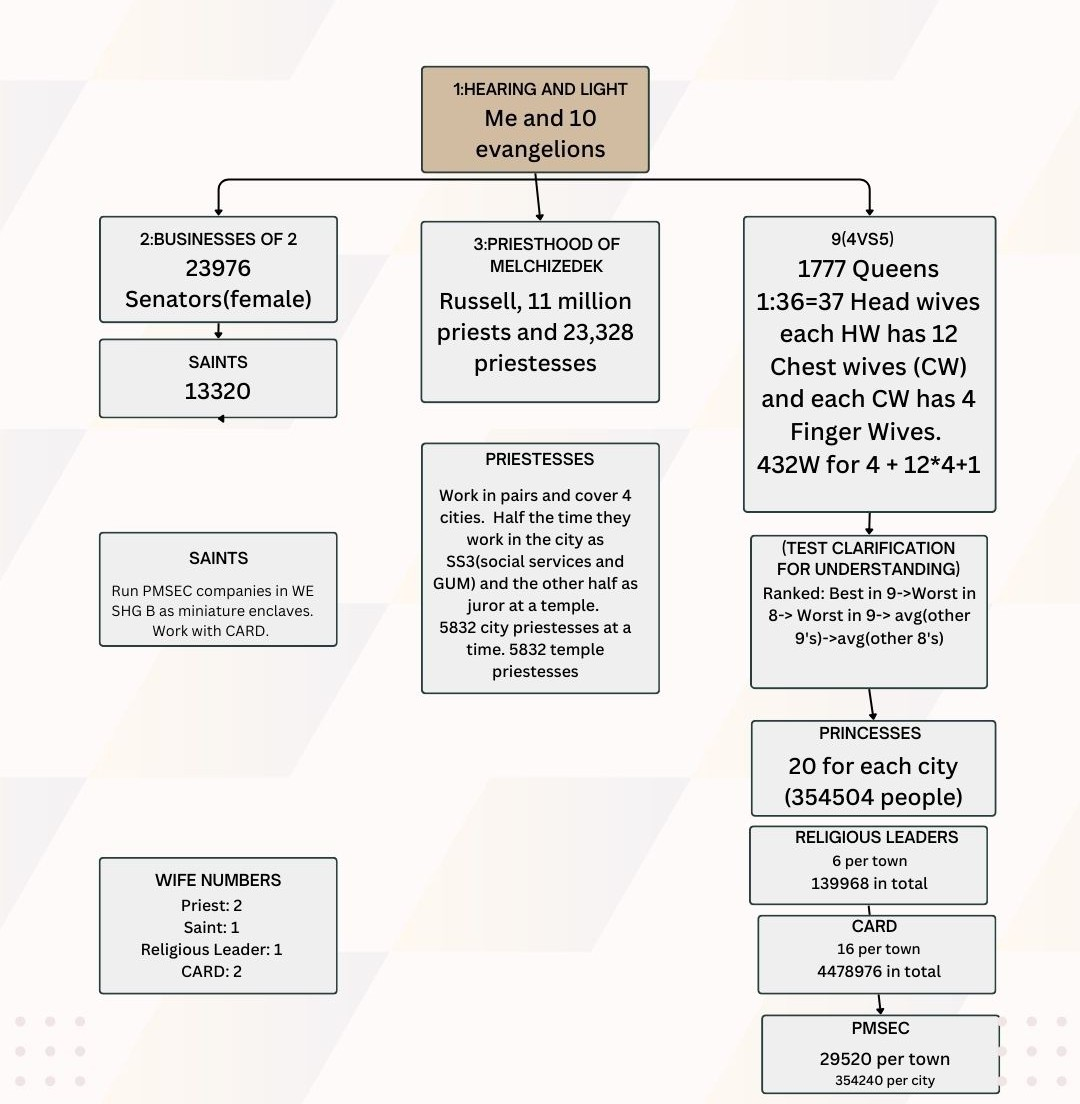
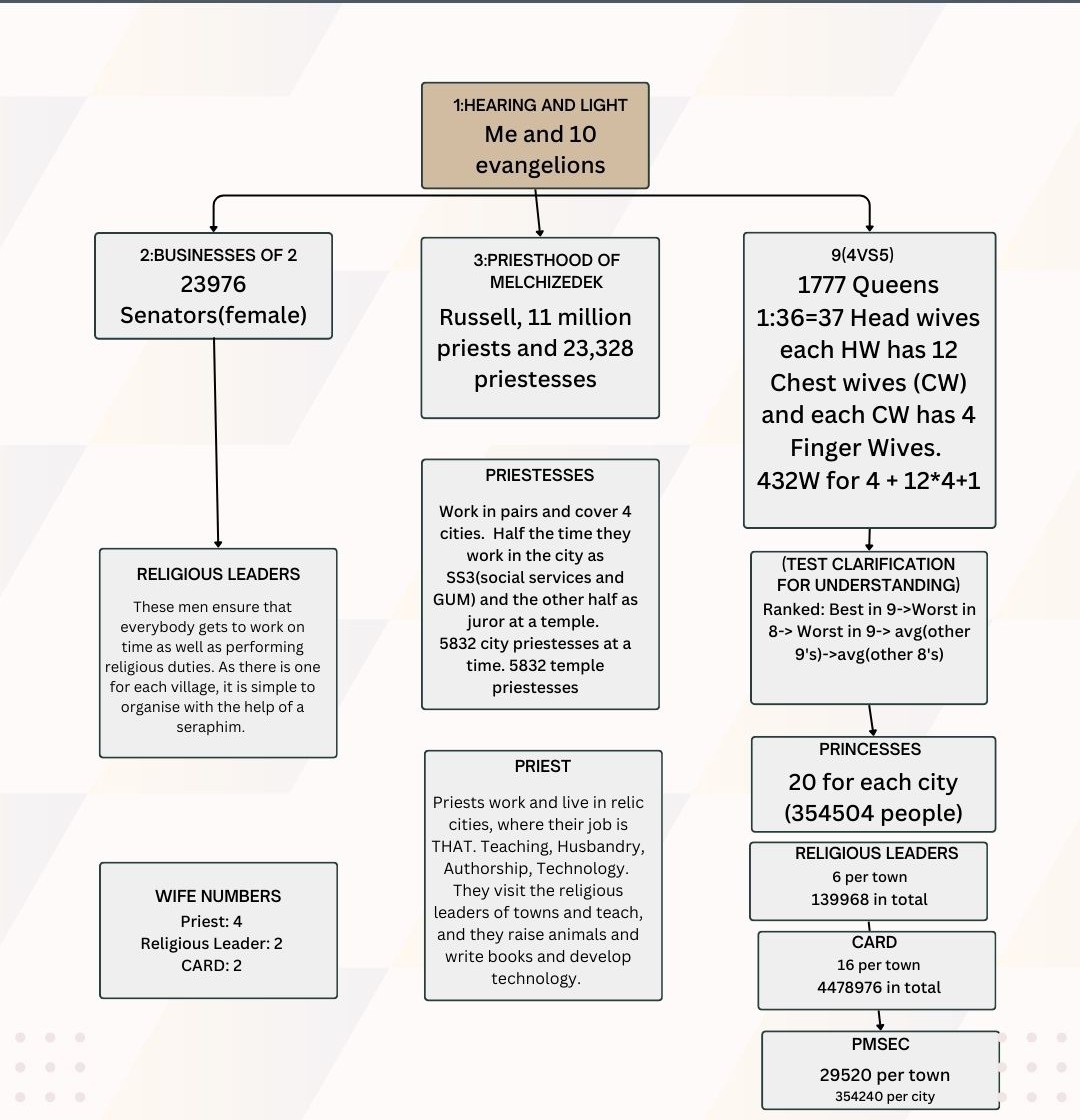
Overwrite remote with local changes 08.02.2026

diff --git a/src/App.js b/src/App.js
@@ -1553,7 +1553,7 @@ const carouselItems = bottomThree.map(item => ({
           <p style={{ fontSize: "15px", lineHeight: 1.6 }}>
             As there are 20 princesses per city and 12 towns per city. 
             The princess will move about often. The total population of a city is 354504 and a Town is 29542. 
-            Saddles can contain 38 people and are built in neighborhoods of 120 and sandwiches can contain 60 people and are built in neighbourhoods of 73. 
+            Saddles can contain 38 people and are built in neighborhoods of 120 and sandwiches can contain 60 people and are built in neighborhoods of 73. 
             Priestesses are shared between 4 cities. Hospitals are a service and within the walls. 
             There will be local health facilities and convenience stores at each residential area serviced by people and evangelions. 
             Training will be provided for a range of work in PMSEC and everybody will have a specialism in one job in these categories. 
@@ -1561,6 +1561,7 @@ const carouselItems = bottomThree.map(item => ({
             then the average of their other goodness and then sorted between KTSHAM and WEBSHG by the average of their other life attributes. It works 
             out that the princesses have a similar group of people to work with and therefore design a FEST that suits them all and improves them. 
             This is where trial testing and transformation is important. The 9 is [46,44,38,21,21,14,11,30(5)], the 8 is [32, 42, 18, 11, 11, 11, 16,16]. 
+            There are 6 religious leaders for each town who the Senators of the business communicate with to ensure that production is on target. 
           </p>
         </div>
       </div>
@@ -1615,12 +1616,12 @@ function WorldRule2Page() {
   const [highlightIndex, setHighlightIndex] = useState(0);
   const [openStatId, setOpenStatId] = useState(null); // <-- track expanded stat
   const metrics = [
-  { id: 1, title: "Princess", text:"Princess is the title of the women (virgins 21 and 26) who run the government of KTSHAM on the side of the 4 (FEST) (materiality and the door to spiritual growth). They live in the Wola as Champions in charge of the Hamlet, Alber and Mish, the Shefa as Deck in charge of the Kent and Thorpe and the GRAD(TH) as Stage in charge of the Sea Village. There are 31968 princesses. They have acolytes who help with the managing of the farm and evangelions. Each acolyte is fitted with a collar and braces. There are evangelions who help them to run the government on their side (4,FEST) and on the side of 5 (JSPEM). Princesses live in castles and have evangelions and acolytes." },
+  { id: 1, title: "Princess", text:"Princess is the title of the women (virgins 21 and 26) who run the government of KTSHAM on the side of the 4 (FEST) (materiality and the door to spiritual growth). They live in the Wola as Champions in charge of the Hamlet, Alber and Mish, the Shefa as Deck in charge of the Kent and Thorpe and the GRAD(TH) as Stage in charge of the Sea Village. There are 116640 princesses. They have acolytes who help with the managing of the farm and evangelions. Each acolyte is fitted with a collar and braces. There are evangelions who help them to run the government on their side (4,FEST) and on the side of 5 (JSPEM). Princesses live in castles and have evangelions and acolytes." },
   { id: 2, title: "Priestess", text:"Priestess is the title for the women (virgins 16 and 20) who run certain duties within The Priesthood of Melchizedek. Namely the Social Services, the Jurors and 3. Social Services is the global social media, calling, messaging and entertainment service provider. Jurors are the maintainers of temples, readers, organizers of my audience and people's pilgrimage and advisers. 3 run GUM, giving, understanding and movement a government branch based in the Eshkol as the Disc, the Hromoda as the Card and the Burg as the Level. There are 23328 priestesses. Priestesses live in temples and nunneries and also have acolytes and evangelions to help them manage their tasks and their land. They split their time between running SS3 half of the year in cities and as a juror in temples the other half." },
   { id: 3, title: "Senator", text:"Senators are women (unmarried between the ages of 26 and 32) who run the business 2. There are 23976 senators. " },
   { id: 4, title: "Queen", text:"Queens are the heads of state of a christmas, arrow, or a tooth. They are who the princesses are guided by and they meet with their respective Queens in the department of 4 who in turn meet with the Evangelions in the department of 9. There are 1777 Queens. Queens princesses, priestesses, priests and saints enjoy the luxury of being able to drive ." },
-  { id: 5, title: "Saint", text:"Saints are to be finalized. They may be removed from the system if I decide it is not necessary. " },
-  { id: 6, title: "Priest", text:"Priests live in relic cities which are the cities of this time that have been scaled down for their number with only the most important and sacred buildings kept. Usually this would be the city center. The outside area is converted to farmland for animals and manufacturing. The number of priests are Catholic: 570595, Eastern Orthodox: 1.1 million, Anglican 76001, Lutherian: 93002, Islam: 2 million, Hinduism: 6 million, Buddhism: 1.5 million, Judaism: 50000, Sikhism: 100000, this totals to 11489598. It is estimated there are between 300 to 500 cities worldwide with historically sacred temples which averages as 22979 people per city which should give an idea of how mch each city will be scaled back. Priests get evangelions and acolytes." },
+  { id: 5, title: "Religious Leaders and CARD", text:"There are 6 religious leaders for each town. 1 for each religion of (TCIHJB). There are 16 members of CARD who assist the princesses with organizing the town." },
+  { id: 5, title: "Priest", text:"Priests live in relic cities which are the cities of this time that have been scaled down for their number with only the most important and sacred buildings kept. Usually this would be the city center. The outside area is converted to farmland for animals and manufacturing. The number of priests are Catholic: 570595, Eastern Orthodox: 1.1 million, Anglican 76001, Lutherian: 93002, Islam: 2 million, Hinduism: 6 million, Buddhism: 1.5 million, Judaism: 50000, Sikhism: 100000, this totals to 11489598. It is estimated there are between 300 to 500 cities worldwide with historically sacred temples which averages as 22979 people per city which should give an idea of how mch each city will be scaled back. Priests get evangelions and acolytes." },
 ];
   const stats6 = Array.from({ length: 6 }).map((_, i) => ({
     id: i,
